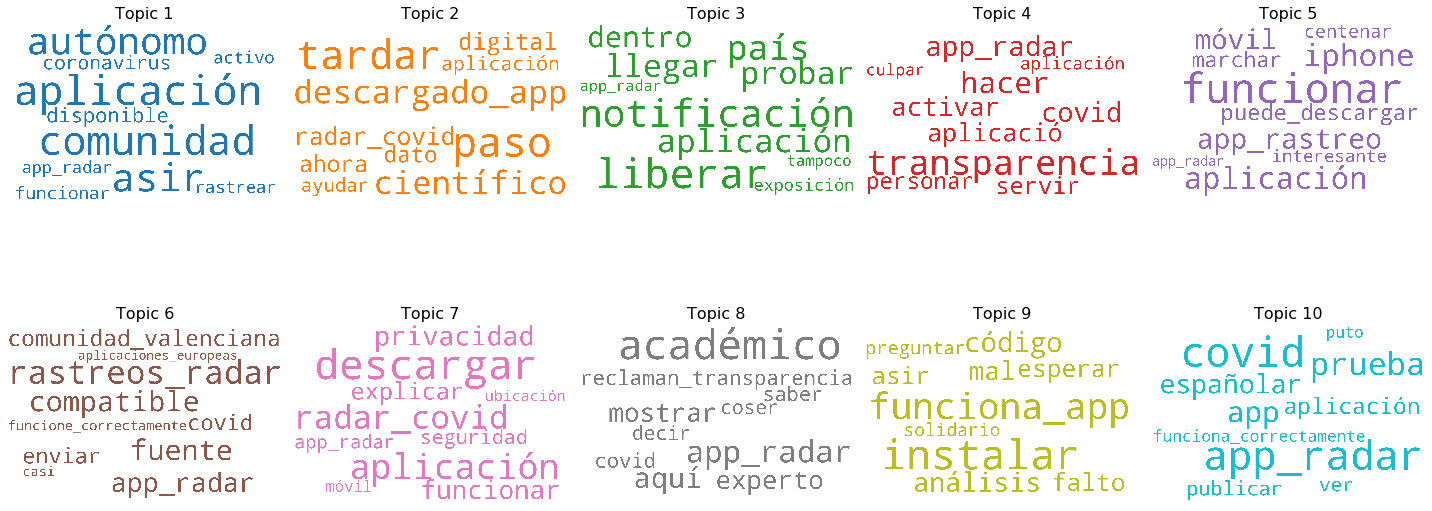
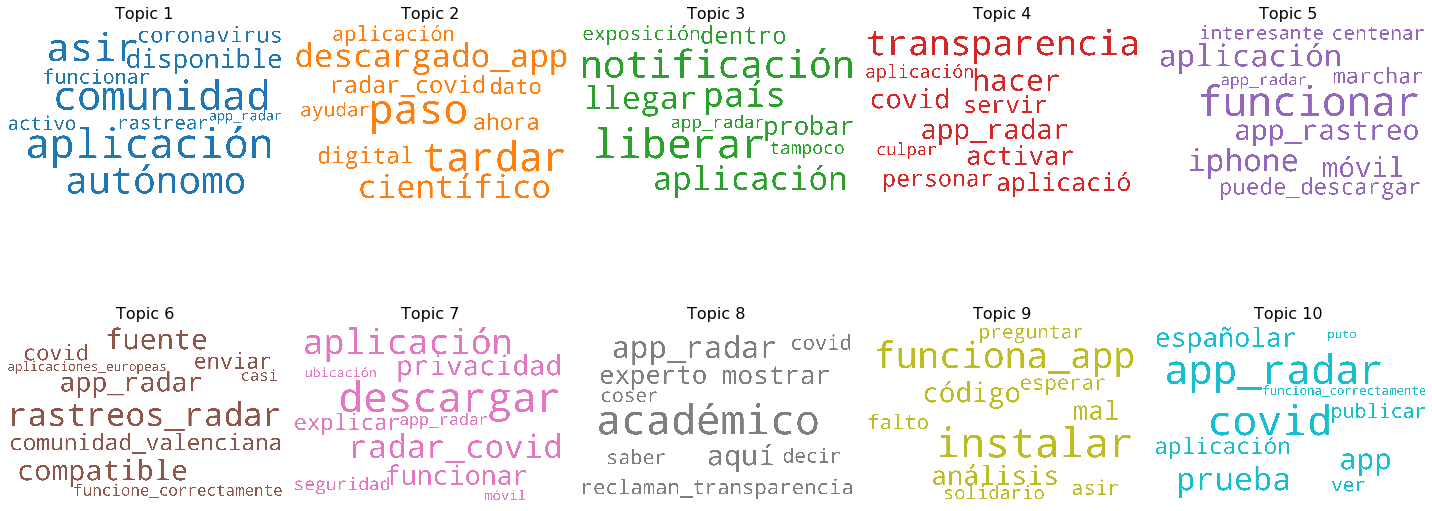
key analysis

Changed region(s): [[0.0, 0.0587, 1.0, 0.3816], [0.0, 0.6458, 1.0, 0.998]]

diff --git a/index_radar_covid.html b/index_radar_covid.html
@@ -129,9 +129,10 @@
             <div style="margin-top: 20px;"></div>
             
             <div class="caption-section">
-                <h3>Top 10 topics and related keywords</em></h3>
+                <h3>Top 10 topics and related relevant keywords</em></h3>
                 <p>LDA analysis on the collected tweets</p>
                 <img src="radar_covid/topic_keywords.png" />
+                <img src="radar_covid/topic_keywords_relevance.png" />
             </div>
 
             <div class="caption-section">
